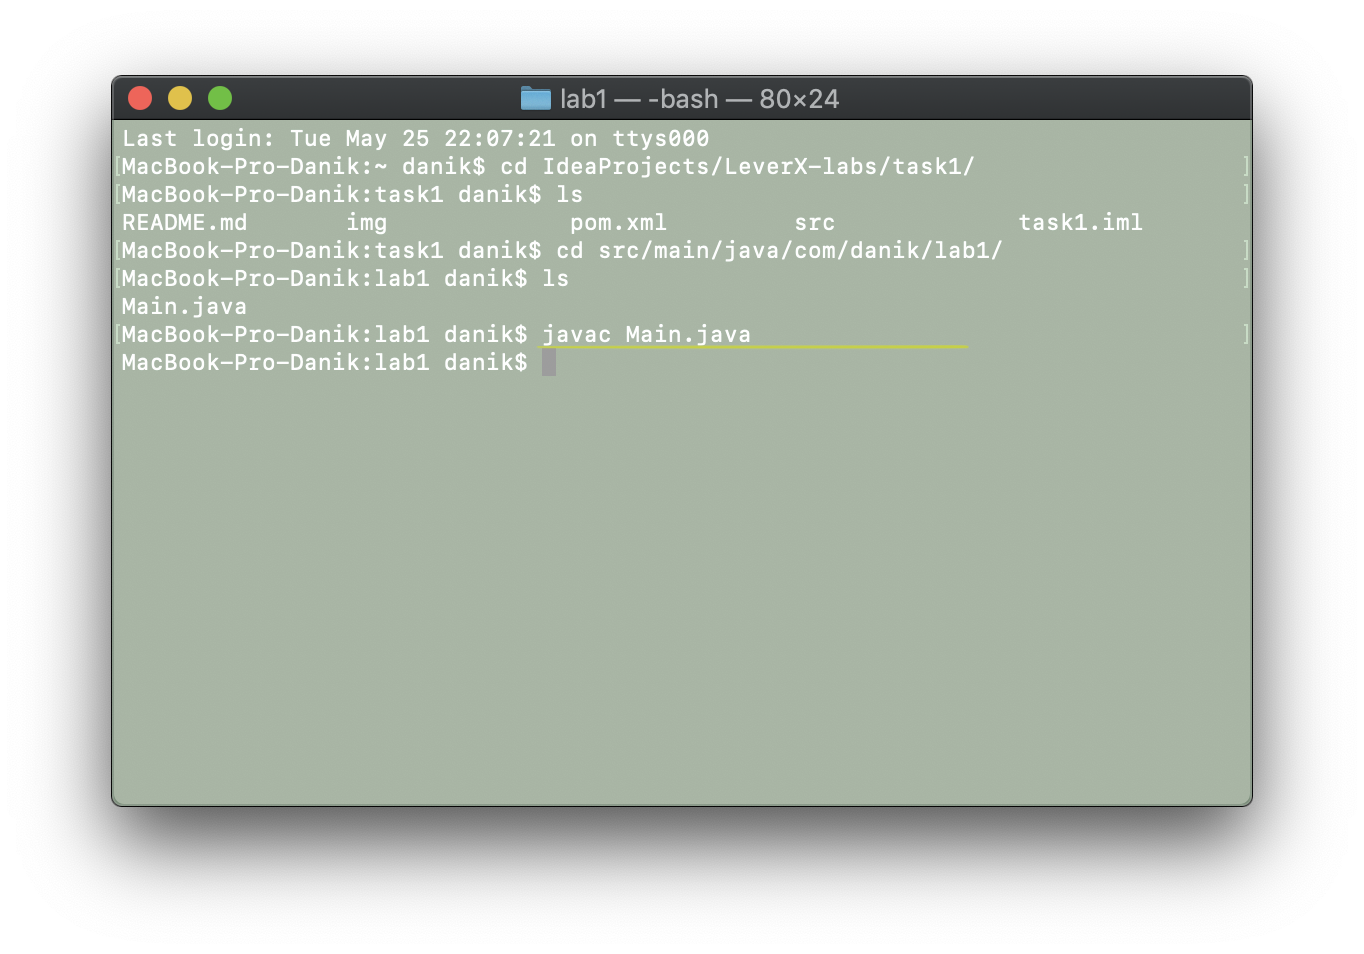
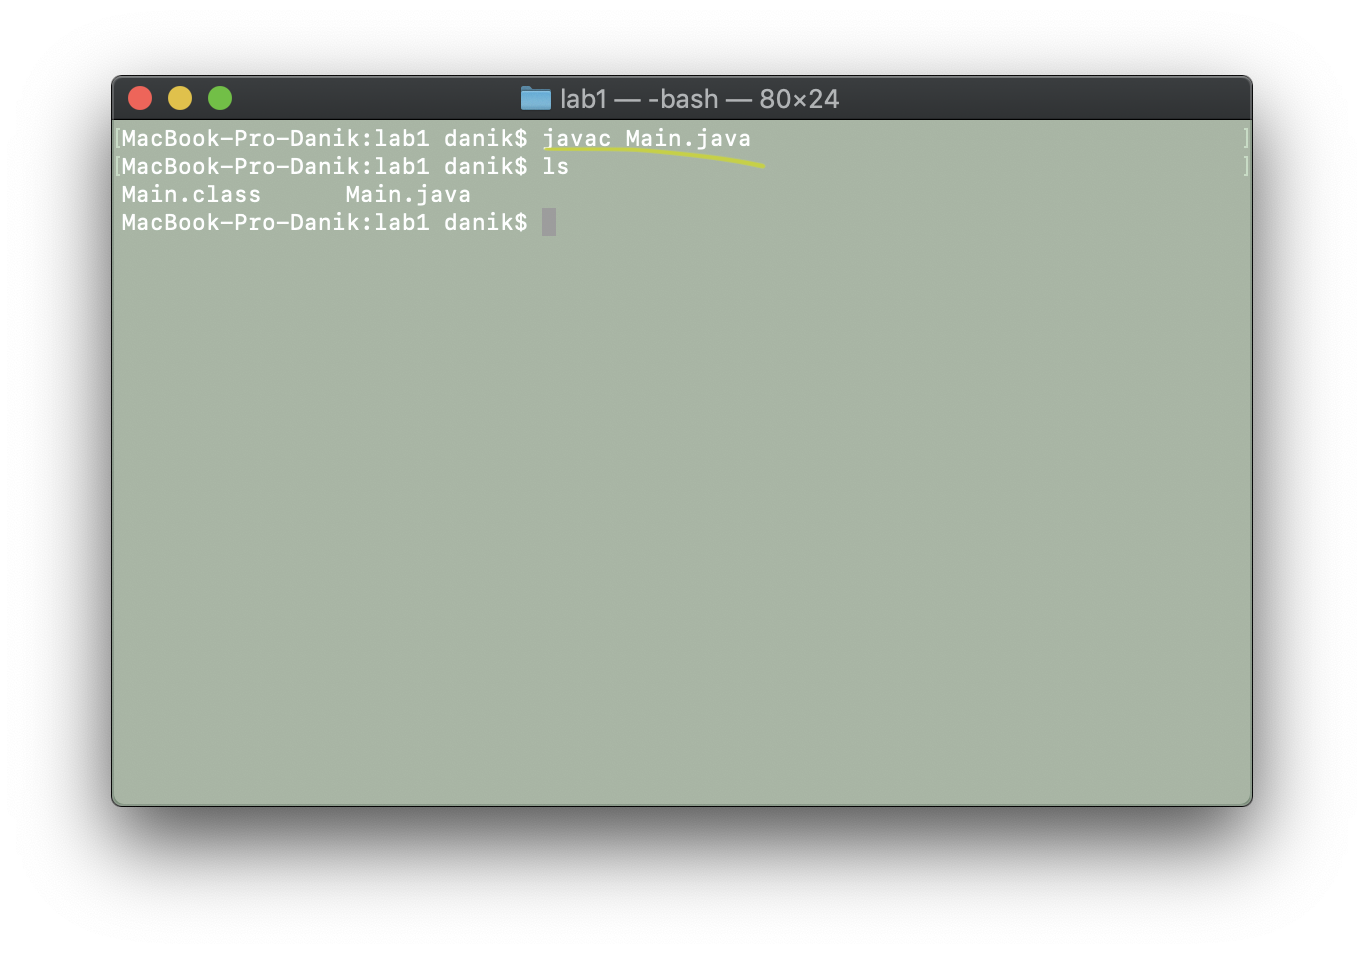
README.md

Changed region(s): [[0.0924, 0.1216, 0.739, 0.3952], [0.739, 0.2128, 0.8314, 0.2432]]

diff --git a/task1/src/main/java/com/leverX/lab1/Main.java b/task1/src/main/java/com/leverX/lab1/Main.java
@@ -1,4 +1,4 @@
-package com.danik.lab1;
+package com.leverX.lab1;
 
 public class Main {
     public static void main(String[] args) {

diff --git a/task1/README.md b/task1/README.md
@@ -1,7 +1,33 @@
 # Инструкция по сборке:
 ## создание .class с помощью javac
 для того, чтобы создать файл с расширенинем `.class`, мы используем javac:
-1. в терминале зайти в папку с файлом `Main.java` и выполнить команду *javac Main.java*
+* В терминале зайти в папку с файлом `Main.java` и выполнить команду *javac Main.java*
 это простейшая компиляция без занесения в директорию `target`
 
 ![alt text](img/1.png)
+
+* Мы можем запустить программу из конcоли с помощью команды `java package1.package2.package3.Main` из `!!!`родительского каталога`!!!`
+![alt text](img/2.png)
+
+*  Затем необходимо в родительском каталоге создать jar c добавлением файла класса `package1/package2/package3/*.class`.
+Но для того, чтоб всё работало, нам необходимо задать `Main-Class` в `MANIFEST.MD`. 
+Для этого мы создадим файл `.txt` со строкой, которую мы хотим добавить в `MANIFEST.MD`
+
+![alt text](img/3.png)
+    `обязательно файл должен заканчиваться переходом на новую строку, иначе не будет работать.`
+![alt text](img/4.png)
+
+* после того, как мы всё подготовили, мы можем создать `.jar` в родительском каталоге с помощью команды `jar cfm main.jar manifest.txt com/leverX/lab1/*.class`, 
+которая создаст джарнит и сделает слияние содержимого файла `manifest.txt` с `MANIFEST.MD`
+
+![alt text](img/5.png)
+
+* Содержимое джарника можно посмотреть с помощью команды `jar xf main.jar`, и там залесть в `META-INF`
+* После создания джарника с указанием всего необходимого мы  можем запустить программу из родительской директории
+![alt text](img/6.png)
+
+
+
+### Дополнения:
+1. на всякий случай `manifest.txt` добавлен в родительский каталог
+2. в папке `img` лежат изображения-примеры
